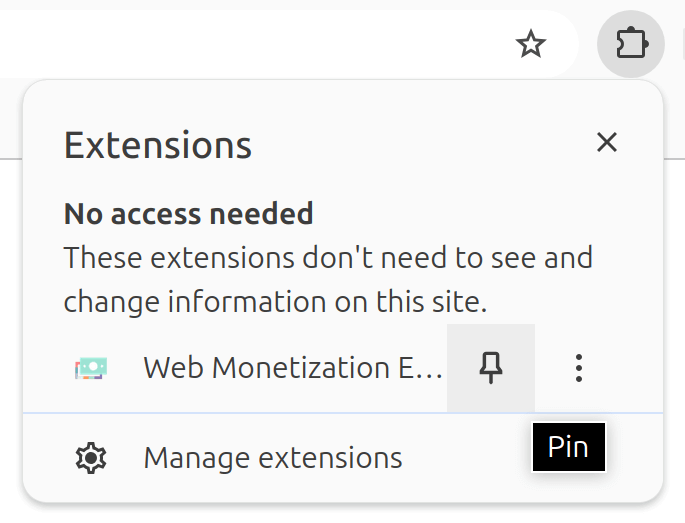
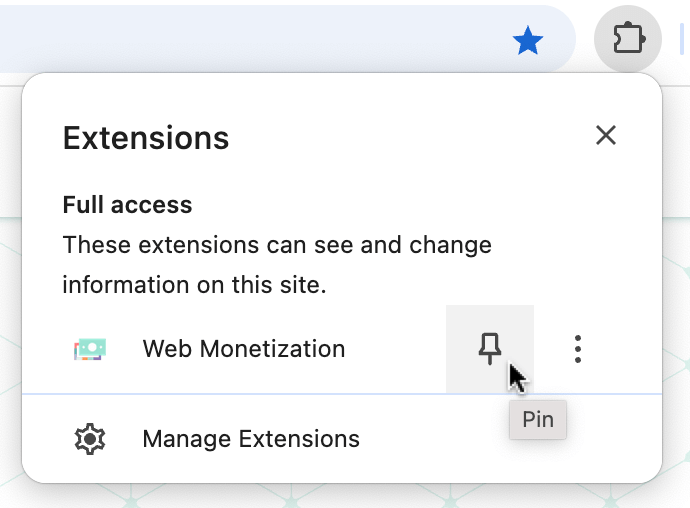
fix(PostInstall): update UI based on feedback (#789)

diff --git a/src/pages/app/pages/PostInstall.tsx b/src/pages/app/pages/PostInstall.tsx
@@ -1,27 +1,26 @@
 import React from 'react';
-import { Button } from '@/pages/shared/components/ui/Button';
 import {
+  ArrowBack,
   CaretDownIcon,
-  CheckIcon,
   ExternalIcon,
 } from '@/pages/shared/components/Icons';
-import { getBrowserName, type BrowserName } from '@/shared/helpers';
+import { cn, getBrowserName, type BrowserName } from '@/shared/helpers';
 import { useBrowser, useTranslation } from '@/app/lib/context';
 
 export const Component = () => {
-  const browser = useBrowser();
-
   return (
     <div
-      className="flex h-screen flex-col items-center overflow-hidden landscape:justify-center"
+      className="flex min-h-screen flex-col items-center bg-fixed sm:overflow-hidden landscape:justify-center"
       style={{
         backgroundImage: `url("/assets/images/bg-tile.svg")`,
         backgroundSize: '40vmax',
       }}
     >
-      <div className="flex max-h-full w-full max-w-screen-2xl grid-flow-col-dense flex-col content-between items-center gap-6 p-8 landscape:grid landscape:p-4">
+      <div className="flex min-h-screen w-full max-w-screen-2xl flex-1 grid-cols-2 flex-col items-stretch gap-6 p-3 sm:p-8 landscape:grid landscape:p-4">
         <Header />
-        <Main openPopup={() => browser.action.openPopup({})} />
+        <div className="flex items-center">
+          <Main />
+        </div>
       </div>
     </div>
   );
@@ -30,7 +29,7 @@ export const Component = () => {
 const Header = () => {
   const t = useTranslation();
   return (
-    <div className="text-center">
+    <div className="text-center landscape:mt-[33vh]">
       <img
         src="/assets/images/logo.svg"
         className="mx-auto mb-4 w-16 text-center landscape:w-36 landscape:2xl:w-48"
@@ -46,21 +45,15 @@ const Header = () => {
   );
 };
 
-const Main = ({ openPopup }: { openPopup: () => Promise<void> }) => {
+const Main = () => {
   const t = useTranslation();
   return (
-    <div className="mx-auto flex h-full w-full max-w-2xl flex-col gap-6 overflow-hidden rounded-lg border border-gray-200 bg-gray-50/75 p-8 shadow-md backdrop-blur-0">
-      <h2 className="rounded-2xl bg-gray-100 p-4 text-center text-lg font-medium">
+    <div className="mx-auto flex w-full max-w-2xl flex-col gap-6 rounded-lg border border-gray-200 bg-gray-50/75 p-3 shadow-md backdrop-blur-0 sm:p-8">
+      <h2 className="rounded-sm bg-gray-100 p-2 text-center text-base font-medium sm:rounded-2xl sm:p-4 sm:text-lg">
         {t('postInstall_text_title')}
       </h2>
 
-      <div className="h-full overflow-y-auto">
-        <Steps />
-      </div>
-
-      <div className="ml-auto mt-auto">
-        <Button onClick={openPopup}>{t('postInstall_action_submit')}</Button>
-      </div>
+      <Steps />
     </div>
   );
 };
@@ -71,6 +64,7 @@ const Steps = () => {
   const isPinnedToToolbar = usePinnedStatus();
   const [isOpen, setIsOpen] = React.useState(0);
   const browserName = getBrowserName(browser, navigator.userAgent);
+  const popupUrl = browser.runtime.getURL('popup/index.html');
 
   const onClick = React.useCallback((index: number, open: boolean) => {
     setIsOpen((prev) => (!open ? index : prev + 1));
@@ -99,15 +93,17 @@ const Steps = () => {
           </React.Fragment>
         }
       >
-        <img
-          src={imgSrc(browserName, {
-            chrome: '/assets/images/wallet-signup-1-chrome.png',
-            firefox: '/assets/images/wallet-signup-1-firefox.png',
-            edge: '/assets/images/wallet-signup-1-edge.png',
-          })}
-          className="mx-auto w-full max-w-96"
-          alt=""
-        />
+        <a
+          href="https://interledger.app/signup"
+          target="_blank"
+          rel="noreferrer"
+        >
+          <img
+            src="/assets/images/wallet-signup.png"
+            className="mx-auto"
+            alt=""
+          />
+        </a>
       </Step>
 
       <Step
@@ -119,7 +115,7 @@ const Steps = () => {
         <img
           src="/assets/images/wallet-wallet-address.png"
           alt=""
-          className="mx-auto w-full max-w-96"
+          className="mx-auto max-w-[90%] p-4 shadow-2xl"
         />
       </Step>
 
@@ -127,28 +123,41 @@ const Steps = () => {
         index={2}
         open={isOpen === 2}
         onClick={onClick}
-        title={
-          <React.Fragment>
-            {t('postInstall_text_stepPin_title')}
-            {isPinnedToToolbar && (
-              <CheckIcon
-                strokeWidth={2}
-                className="float-right mt-1 inline-block size-5 text-secondary-dark"
-              />
-            )}
-          </React.Fragment>
-        }
+        title={t('postInstall_text_stepPin_title')}
       >
-        <p>{t('postInstall_text_stepPin_desc')}</p>
+        <p>
+          {t('postInstall_text_stepPin_desc')}
+          {isPinnedToToolbar && (
+            <span> {t('postInstall_text_stepPin_descComplete')}</span>
+          )}
+        </p>
         <img
           src={imgSrc(browserName, {
             chrome: '/assets/images/pin-extension-chrome.png',
             firefox: '/assets/images/pin-extension-firefox.png',
             edge: '/assets/images/pin-extension-edge.png',
           })}
-          className="mx-auto w-full max-w-96"
+          className="mx-auto max-w-[90%]"
+          style={{ maxHeight: 'max(35vh, 18rem)' }}
           alt=""
         />
+      </Step>
+
+      <Step
+        isPrimaryButton={true}
+        index={3}
+        open={isOpen === 3}
+        onClick={onClick}
+        title={t('postInstall_action_submit')}
+      >
+        <div className="mx-auto h-popup w-popup overflow-hidden">
+          <iframe
+            loading="lazy"
+            src={popupUrl}
+            title="Connect your wallet"
+            className="h-popup w-popup border-none"
+          />
+        </div>
       </Step>
     </ol>
   );
@@ -179,18 +188,27 @@ function Step({
   children,
   onClick,
   open,
+  isPrimaryButton = false,
 }: {
   index: number;
   title: React.ReactNode;
   children: React.ReactNode;
   onClick: (index: number, open: boolean) => void;
   open: boolean;
+  isPrimaryButton?: boolean;
 }) {
+  const iconDefaultClass = 'size-5 shrink-0 rounded-full p-1';
   return (
     <li>
       <details
         open={open}
-        className="group relative space-y-4 overflow-hidden rounded-md border border-slate-200 bg-white p-4 transition-colors open:shadow-sm focus-within:border-slate-300 focus-within:shadow-md hover:bg-slate-50 open:hover:bg-white"
+        className={cn(
+          'group relative gap-2 space-y-4 overflow-hidden rounded-md border border-slate-200 p-2 text-base transition-colors open:shadow-sm focus-within:border-slate-300 focus-within:shadow-md open:hover:bg-white sm:p-4 sm:text-lg',
+          isPrimaryButton && 'duration-0',
+          isPrimaryButton && !open
+            ? 'bg-button-base text-white hover:bg-button-base-hover'
+            : 'bg-white text-weak hover:bg-slate-50',
+        )}
       >
         <summary
           className="-mx-4 -my-4 flex cursor-pointer items-center gap-2 p-4 focus:outline-none"
@@ -201,15 +219,39 @@ function Step({
             onClick(index, open);
           }}
         >
-          <CaretDownIcon className="size-5 shrink-0 rounded-full bg-slate-100 p-1 text-slate-500 group-open:rotate-180" />
-          <h3 className="w-full text-lg text-weak group-open:text-strong">
+          <StepNumber number={index + 1} />
+          <h3 className="w-full text-base group-open:text-strong sm:text-lg">
             {title}
           </h3>
+          {!isPrimaryButton ? (
+            <CaretDownIcon
+              className={cn(
+                iconDefaultClass,
+                'bg-slate-100 text-slate-500 group-open:rotate-180',
+              )}
+            />
+          ) : (
+            <ArrowBack
+              className={cn(
+                iconDefaultClass,
+                'rotate-180 bg-white/5 text-white',
+              )}
+            />
+          )}
         </summary>
 
         {children}
       </details>
     </li>
+  );
+}
+
+function StepNumber({ number }: { number: number }) {
+  return (
+    <span className="inline-block shrink-0 rounded-lg bg-black/5 p-1 align-middle text-sm outline outline-1 outline-gray-800/10">
+      <span className="sr-only">Step </span>
+      {number}.
+    </span>
   );
 }
 

diff --git a/src/pages/shared/components/Icons.tsx b/src/pages/shared/components/Icons.tsx
@@ -29,22 +29,11 @@ export const ArrowBack = (props: React.SVGProps<SVGSVGElement>) => {
       xmlns="http://www.w3.org/2000/svg"
       {...props}
     >
-      <mask
-        id="mask0_169_196"
-        maskUnits="userSpaceOnUse"
-        x="0"
-        y="0"
-        width="25"
-        height="25"
-      >
-        <rect x="0.75" y="0.5" width="24" height="24" fill="#C4C4C4" />
-      </mask>
-      <g mask="url(#mask0_169_196)">
-        <path
-          d="M12.75 20.5L4.75 12.5L12.75 4.5L14.175 5.9L8.575 11.5H20.75V13.5H8.575L14.175 19.1L12.75 20.5Z"
-          fill="#475569"
-        />
-      </g>
+      <rect x="0.75" y="0.5" width="24" height="24" fill="none" />
+      <path
+        d="M12.75 20.5L4.75 12.5L12.75 4.5L14.175 5.9L8.575 11.5H20.75V13.5H8.575L14.175 19.1L12.75 20.5Z"
+        fill="currentColor"
+      />
     </svg>
   );
 };

diff --git a/src/pages/popup/components/layout/Header.tsx b/src/pages/popup/components/layout/Header.tsx
@@ -17,14 +17,14 @@ const NavigationButton = () => {
     if (location.pathname.includes('/s/')) {
       return (
         <Link to={location.pathname.split('/s/')[0]}>
-          <ArrowBack className="h-6" />
+          <ArrowBack className="h-6 text-gray-500" />
         </Link>
       );
     }
 
     return location.pathname === `${ROUTES_PATH.SETTINGS}` ? (
       <Link to={ROUTES_PATH.HOME}>
-        <ArrowBack className="h-6" />
+        <ArrowBack className="h-6 text-gray-500" />
       </Link>
     ) : (
       <React.Fragment>

diff --git a/src/pages/popup/pages/ConnectWallet.tsx b/src/pages/popup/pages/ConnectWallet.tsx
@@ -8,6 +8,14 @@ export const Component = () => {
   const { transientState, publicKey } = usePopupState();
   const message = useMessage();
 
+  React.useEffect(() => {
+    if (window.self !== window.top) {
+      // if used in iframe (in post install screen), remove header
+      document.querySelector('header')?.remove();
+      document.querySelector('.bg-divider-gradient')?.remove();
+    }
+  }, []);
+
   const connectState = transientState['connect'];
   return (
     <ConnectWalletForm

diff --git a/src/background/services/background.ts b/src/background/services/background.ts
@@ -58,10 +58,10 @@ export class Background {
 
   async start() {
     this.bindOnInstalled();
+    this.bindMessageHandler();
     await this.injectPolyfill();
     await this.onStart();
     this.heartbeat.start();
-    this.bindMessageHandler();
     this.bindPermissionsHandler();
     this.bindEventsHandler();
     this.bindTabHandlers();

diff --git a/src/pages/app/index.css b/src/pages/app/index.css
@@ -65,6 +65,10 @@
     --border-base: 203 213 225;
     --border-focus: 59 130 246;
     --border-error: 220 38 38;
+
+    /* Popup */
+    --popup-width: 448px;
+    --popup-height: 600px;
   }
 
   body {
